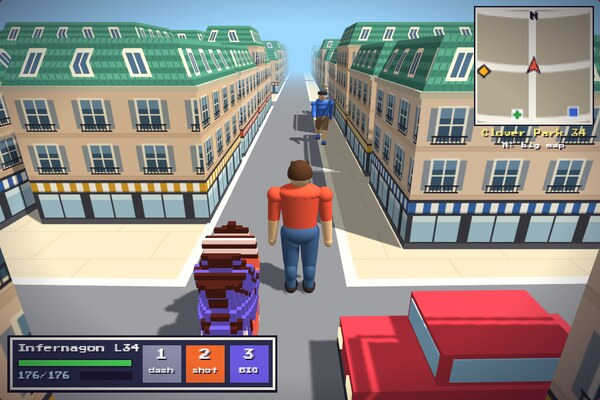
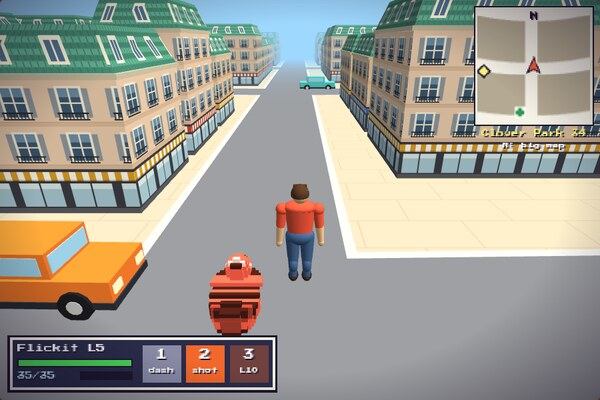
Widen the roads and shrink the people in Champion of the Wildlings
Roads are five squares wide with pavements, people are three-quarters
of their old size, and walkers and cars use the new lanes.

diff --git a/champion/game.js b/champion/game.js
@@ -62,6 +62,7 @@ const tiles = Array.from({ length: CH }, () => new Uint8Array(CW));
 const fromMid = (tx, ty) => Math.hypot(tx + 0.5 - MID, ty + 0.5 - MID);
 const turnOf = (tx, ty) => ((Math.atan2(ty + 0.5 - MID, tx + 0.5 - MID) * 180) / Math.PI + 360) % 360;      // the angle round the city, in degrees
 const polar = (deg, r) => ({ x: MID + Math.cos((deg * Math.PI) / 180) * r, y: MID + Math.sin((deg * Math.PI) / 180) * r });
+const ROAD = 2.5;            // half the width of every road, in squares (so roads are 5 squares wide, with room for wide pavements)
 const RINGS = [23, 45, 67, 89, 111, 133, 154.5];        // how far out each ring boulevard is, in squares
 const AVENUES = [];          // every avenue: the way it points (in degrees) and how far from the middle it starts
 for (let k = 0; k < 12; k++) AVENUES.push({ deg: k * 30, from: 15 });
@@ -88,11 +89,11 @@ for (let y = 0; y < CH; y++) for (let x = 0; x < CW; x++) {
   if (d > CITY_R) kind = OUT;
   else if (d < 16) kind = PLAZA;
   else {
-    // seven ring boulevards, and avenues running outwards (all 3 squares wide)
-    let road = RINGS.some((r) => Math.abs(d - r) < 1.5);
+    // seven ring boulevards, and avenues running outwards
+    let road = RINGS.some((r) => Math.abs(d - r) < ROAD);
     for (const avenue of AVENUES) {
       const a = (avenue.deg * Math.PI) / 180, along = dx * Math.cos(a) + dy * Math.sin(a), off = Math.abs(dy * Math.cos(a) - dx * Math.sin(a));
-      if (along > avenue.from && off < 1.5) road = true;
+      if (along > avenue.from && off < ROAD) road = true;
     }
     if (road) kind = STREET;
     else if (Math.abs(y + 0.5 - (MID - 36 + Math.sin(x / 14) * 5)) < 2.5) kind = POND;        // the river (streets cross it on bridges)
@@ -138,7 +139,7 @@ const lamps = [], trees = [];
 for (let y = 1; y < CH - 1; y++) for (let x = 1; x < CW - 1; x++) if (tiles[y][x] === TREE) trees.push({ x: x * TILE + 8, y: y * TILE + 8 });
 // Street lamps stand in neat rows along the kerbs of the ring boulevards
 for (const r of RINGS.slice(0, 6)) for (let k = 0; k < (r > 80 ? 48 : 24); k++) {
-  const spot = polar((k + 0.5) * (r > 80 ? 7.5 : 15), r + (k % 2 ? 1.75 : -1.75));
+  const spot = polar((k + 0.5) * (r > 80 ? 7.5 : 15), r + (k % 2 ? 2.1 : -2.1));
   lamps.push({ x: spot.x * TILE, y: spot.y * TILE });
 }
 const tileAt = (px, py) => {
@@ -174,7 +175,7 @@ const cityMap = makeCanvas(CW * 2, CH * 2);
   g.stroke();
   g.restore();
   g.strokeStyle = "#f6f2e8";
-  g.lineWidth = 6;
+  g.lineWidth = ROAD * 4;
   for (const r of RINGS) {
     g.beginPath();
     g.arc(mid, mid, r * 2, 0, 6.2832);
@@ -513,14 +514,14 @@ function placeRoute(r, min, max) {
   }
   return null;
 }
-// People stroll along the edge of the road (one in six is out for a run). Say hello and they will give you a tip.
+// People stroll along the pavements (one in six is out for a run). Say hello and they will give you a tip.
 const HELLOS = ["Fire beats Grass, Water beats Fire, and Grass beats Water. Easy to remember!", "A Fairy type makes short work of a Dragon.", "Sell your star shards at the shops with the blue signs.", "The cafes with a green cross heal your Wildlings for free.", "They say a legendary Wildling comes to the raid portals once you reach Rank 50.", "The gate matches at the tower are tough. Train in the parks first!", "Ice is super against Dragons. Brr!", "Press T to see which types beat which.", "New star shards fall on the streets every morning.", "The Battle Zone only opens at night. Press N if you can't wait.", "Wilder Wildlings live in the parks far from the station.", "I heard only a Champion has ever seen the mythical Wishling.", "Lovely day for a walk, isn't it?", "Mind the cars when you cross the road!"];
 const walkers = Array.from({ length: 14 }, function (unused, n) {
   const jog = n % 6 === 5;
-  return { route: { off: 21.5, keepLeft: false }, live: false, x: 0, y: 0, face: 0, anim: n, moving: true, jog: jog, speed: jog ? 96 : 30 + (n % 4) * 3, outfit: randomOutfit(), hello: n };
+  return { route: { off: 33, keepLeft: false }, live: false, x: 0, y: 0, face: 0, anim: n, moving: true, jog: jog, speed: jog ? 96 : 30 + (n % 4) * 3, outfit: randomOutfit(), hello: n };
 });
 // Cars drive round the roads, keeping to the left. They stop for you, for your Wildling and for each other.
-const cars = Array.from({ length: 12 }, (unused, n) => ({ route: { off: 9, keepLeft: true }, live: false, x: 0, y: 0, face: 0, speed: 0, top: 120 + (n % 4) * 14, rolled: 0, stuck: 0 }));
+const cars = Array.from({ length: 12 }, (unused, n) => ({ route: { off: 12, keepLeft: true }, live: false, x: 0, y: 0, face: 0, speed: 0, top: 120 + (n % 4) * 14, rolled: 0, stuck: 0 }));
 let firstTraffic = true;          // (when the game starts, people and cars may appear close to you)
 function updateTraffic(dt) {
   for (const walker of walkers) {
@@ -533,13 +534,13 @@ function updateTraffic(dt) {
     walker.moving = Math.hypot(walker.x - me.x, walker.y - me.y) > 19;        // (they wait politely if you stand in their way)
     if (walker.moving) {
       moveRoute(walker.route, walker.speed * dt);
-      walker.anim += dt * (walker.jog ? 12.5 : 5.4);
+      walker.anim += dt * (walker.jog ? 14 : 6.2);
     }
     const ahead = routeAhead(walker.route, 26, 0);
     if (tileAt(ahead.x, ahead.y) === POND) turnRound(walker.route);            // (a pond ahead: turn back)
-    // They keep to the edge of the road, and step in a little where a building or the river comes close
+    // They keep to the pavement, and step in a little where a building or the river comes close
     let spot = null;
-    for (const gap of [21.5, 17, 12.5]) {
+    for (const gap of [33, 28, 22]) {
       spot = routeAt(walker.route, gap);
       if (![WALL, POND, OUT, TREE].includes(tileAt(spot.x, spot.y))) break;
     }
@@ -965,7 +966,7 @@ function updatePlay(dt) {
       if (canStand(nx, ny)) Object.assign(me, { x: nx, y: ny });
     }
     me.running = !!(keys.ShiftLeft || keys.ShiftRight);
-    me.anim += dt * (me.running ? 12.5 : 8.2);          // (how fast your legs go: quicker when you run)
+    me.anim += dt * (me.running ? 14 : 9.4);          // (how fast your legs go: quicker when you run)
   }
   // Your Wildling: it follows you, dashes in to attack, and charges up its big move
   const c = lead();
@@ -1313,11 +1314,11 @@ function drawPlay() {
     const at = VIEW.project(x, y, high);
     if (at) words(text, at.x, at.y, colour, size, "center");
   };
-  for (const t of trainers) if (!t.beaten && !fight) over(t.x, t.y, 36 + Math.sin(time * 6) * 2, "!", "#ff5a5a", 10);
+  for (const t of trainers) if (!t.beaten && !fight) over(t.x, t.y, 30 + Math.sin(time * 6) * 2, "!", "#ff5a5a", 10);
   for (const foe of foes) if (foe.gone <= 0 && foe.wind && Math.floor(time * 14) % 2) over(foe.x, foe.y, 38, "!", "#ff5a5a", 10);
-  if (fight) over(fight.trainer.x, fight.trainer.y, 36, fight.trainer.name, "#ffffff", 6);
+  if (fight) over(fight.trainer.x, fight.trainer.y, 30, fight.trainer.name, "#ffffff", 6);
   const near = (thing, range) => Math.hypot(thing.x - me.x, thing.y - me.y) < range;
-  if (near(OFFICIAL, 300)) over(OFFICIAL.x, OFFICIAL.y, 40, "League Master", "#fff27a", 6);
+  if (near(OFFICIAL, 300)) over(OFFICIAL.x, OFFICIAL.y, 33, "League Master", "#fff27a", 6);
   for (const portal of RAIDS) if (portal.open && !(raid && raid.portal === portal) && near(portal, 520)) over(portal.x, portal.y, 54, (DEX[portal.id].legend ? "LEGENDARY RAID: " : DEX[portal.id].myth ? "MYTHICAL RAID: " : "RAID: ") + DEX[portal.id].name, "#e0a0ff", 6);
   for (const cafe of cafes) if (near(cafe, 260)) over(cafe.x, cafe.y - 8, 30, cafe.shop ? "SHOP" : "CAFE", cafe.shop ? "#9ac4ff" : "#7af0a0", 6);
   for (const park of PARKS) if (near({ x: park.at.x * TILE, y: park.at.y * TILE }, 420)) over(park.at.x * TILE, park.at.y * TILE, 60, park.name + "  L" + park.lv[0] + "-" + park.lv[1], "#9af0a0", 6);

diff --git a/champion/view3d.js b/champion/view3d.js
@@ -69,8 +69,10 @@ const VIEW = (function () {
 
   // ----- People -----
   // A person about 30 units tall, with proper proportions: legs with knees, arms with elbows, shoulders, a neck and a face.
+  const PERSON = 0.76;         // how big people are (1 would make them tower over the cars)
   function makeHuman() {
     const group = new THREE.Group();          // where the person stands, and which way they face
+    group.scale.setScalar(PERSON);
     const body = new THREE.Group();           // the whole body: it bobs up and down and leans as they move
     const hips = new THREE.Group();           // the hips and legs
     const torso = new THREE.Group();          // everything above the waist: it twists the opposite way to the hips
@@ -128,9 +130,7 @@ const VIEW = (function () {
     const skirt = add(new THREE.Mesh(new THREE.CylinderGeometry(3.6, 5.4, 5.4, 14), m.bottom), 0, -2, 0, hips);
     skirt.scale.z = 0.85;
     const chest = add(new THREE.Mesh(new THREE.CylinderGeometry(4.4, 3.5, 8.6, 16), m.top), 0, 3.7, 0, torso);
-    chest.scale.z = 0.7;
-    const ribs = add(new THREE.Mesh(new THREE.SphereGeometry(3.8, 14, 10), m.top), 0, 5.3, 0.65, torso);      // a rounded chest
-    ribs.scale.set(1, 0.7, 0.7);
+    chest.scale.z = 0.74;
     const shoulders = add(new THREE.Mesh(new THREE.SphereGeometry(4.4, 14, 8), m.top), 0, 7.9, 0, torso);
     shoulders.scale.set(1.07, 0.42, 0.72);
     const zip = box(0.8, 8.4, 0.3, m.trim, 0, 3.8, 3.05, torso);          // a jacket's zip and collar
@@ -241,7 +241,7 @@ const VIEW = (function () {
         torso.rotation.x = mix(0.02, 0.1);
         head.rotation.y = twist * mix(0.06, 0.1);
         head.rotation.x = -mix(0.04, 0.2) + Math.sin(now * 0.9 + x) * 0.03 * still;
-        chest.scale.x = ribs.scale.x = 1 + Math.sin(now * 1.7) * 0.012 * still;            // breathing, when standing still
+        chest.scale.x = 1 + Math.sin(now * 1.7) * 0.012 * still;            // breathing, when standing still
         body.rotation.x = lean;
         // walking: highest when one leg is straight under you. Running: highest in mid-air, between steps.
         body.position.set(twist * mix(0.3, 0.15), go * ((1 - fast) * (Math.cos(step * 2) * 0.35 - 0.3) + fast * (0.5 - Math.cos(step * 2) * 0.9)), 0);
@@ -558,7 +558,7 @@ const VIEW = (function () {
       if (Math.hypot(x0 - mid, z0 - mid) > CITY_R * TILE) continue;
       flat("water", -1.3, [x0, z0 + 40], [x1, z1 + 40], [x1, z1 - 40], [x0, z0 - 40]);
     }
-    const HALF = 19;                            // half the width of a road
+    const HALF = 26;                            // half the width of the tarmac (the pavements are outside it)
     for (const r of RINGS) {
       ring("kerb", -1.0, r * TILE - HALF - 3, r * TILE + HALF + 3);
       ring("road", -0.8, r * TILE - HALF, r * TILE + HALF);
@@ -883,8 +883,8 @@ const VIEW = (function () {
       camera.lookAt(STATION.x + 30 + (1 - eased) * 260, 22, STATION.y - 20);
     } else if (dressing) {
       const side = look + 0.3;
-      camera.position.set(me.x + Math.sin(side) * 44, 21, me.y + Math.cos(side) * 44);
-      camera.lookAt(me.x + Math.cos(look) * -9, 16, me.y + Math.sin(look) * 9);
+      camera.position.set(me.x + Math.sin(side) * 35, 17, me.y + Math.cos(side) * 35);
+      camera.lookAt(me.x + Math.cos(look) * -7, 12.5, me.y + Math.sin(look) * 7);
     } else {
       let back = 58 * zoom;
       const blocked = function (far) {          // would the camera be inside a building, or right up against one?
@@ -895,7 +895,7 @@ const VIEW = (function () {
       while (back > 8 && blocked(back)) back -= 4;
       // (when it has to come in close, it also rises, so it looks down on you and never fills the screen with your back)
       camera.position.set(me.x + Math.sin(look) * back, 16 + wanted * 0.42 * Math.max(0.9, zoom) + (wanted - back) * 0.75, me.y + Math.cos(look) * back);
-      camera.lookAt(me.x - Math.sin(look) * 14, 17, me.y - Math.cos(look) * 14);
+      camera.lookAt(me.x - Math.sin(look) * 14, 14, me.y - Math.cos(look) * 14);
     }
     // People
     mine.group.visible = mode !== "train" || trainTime > 4;        // (you step off the train once it has stopped)

diff --git a/champion/index.html b/champion/index.html
@@ -53,8 +53,8 @@
     <script src="../sounds.js"></script>
     <script src="https://cdnjs.cloudflare.com/ajax/libs/three.js/r128/three.min.js"></script>
     <script src="creatures.js?v=1"></script>
-    <script src="view3d.js?v=5"></script>
-    <script src="game.js?v=6"></script>
+    <script src="view3d.js?v=8"></script>
+    <script src="game.js?v=7"></script>
     <script src="../fullscreen.js"></script>
   </body>
 </html>
